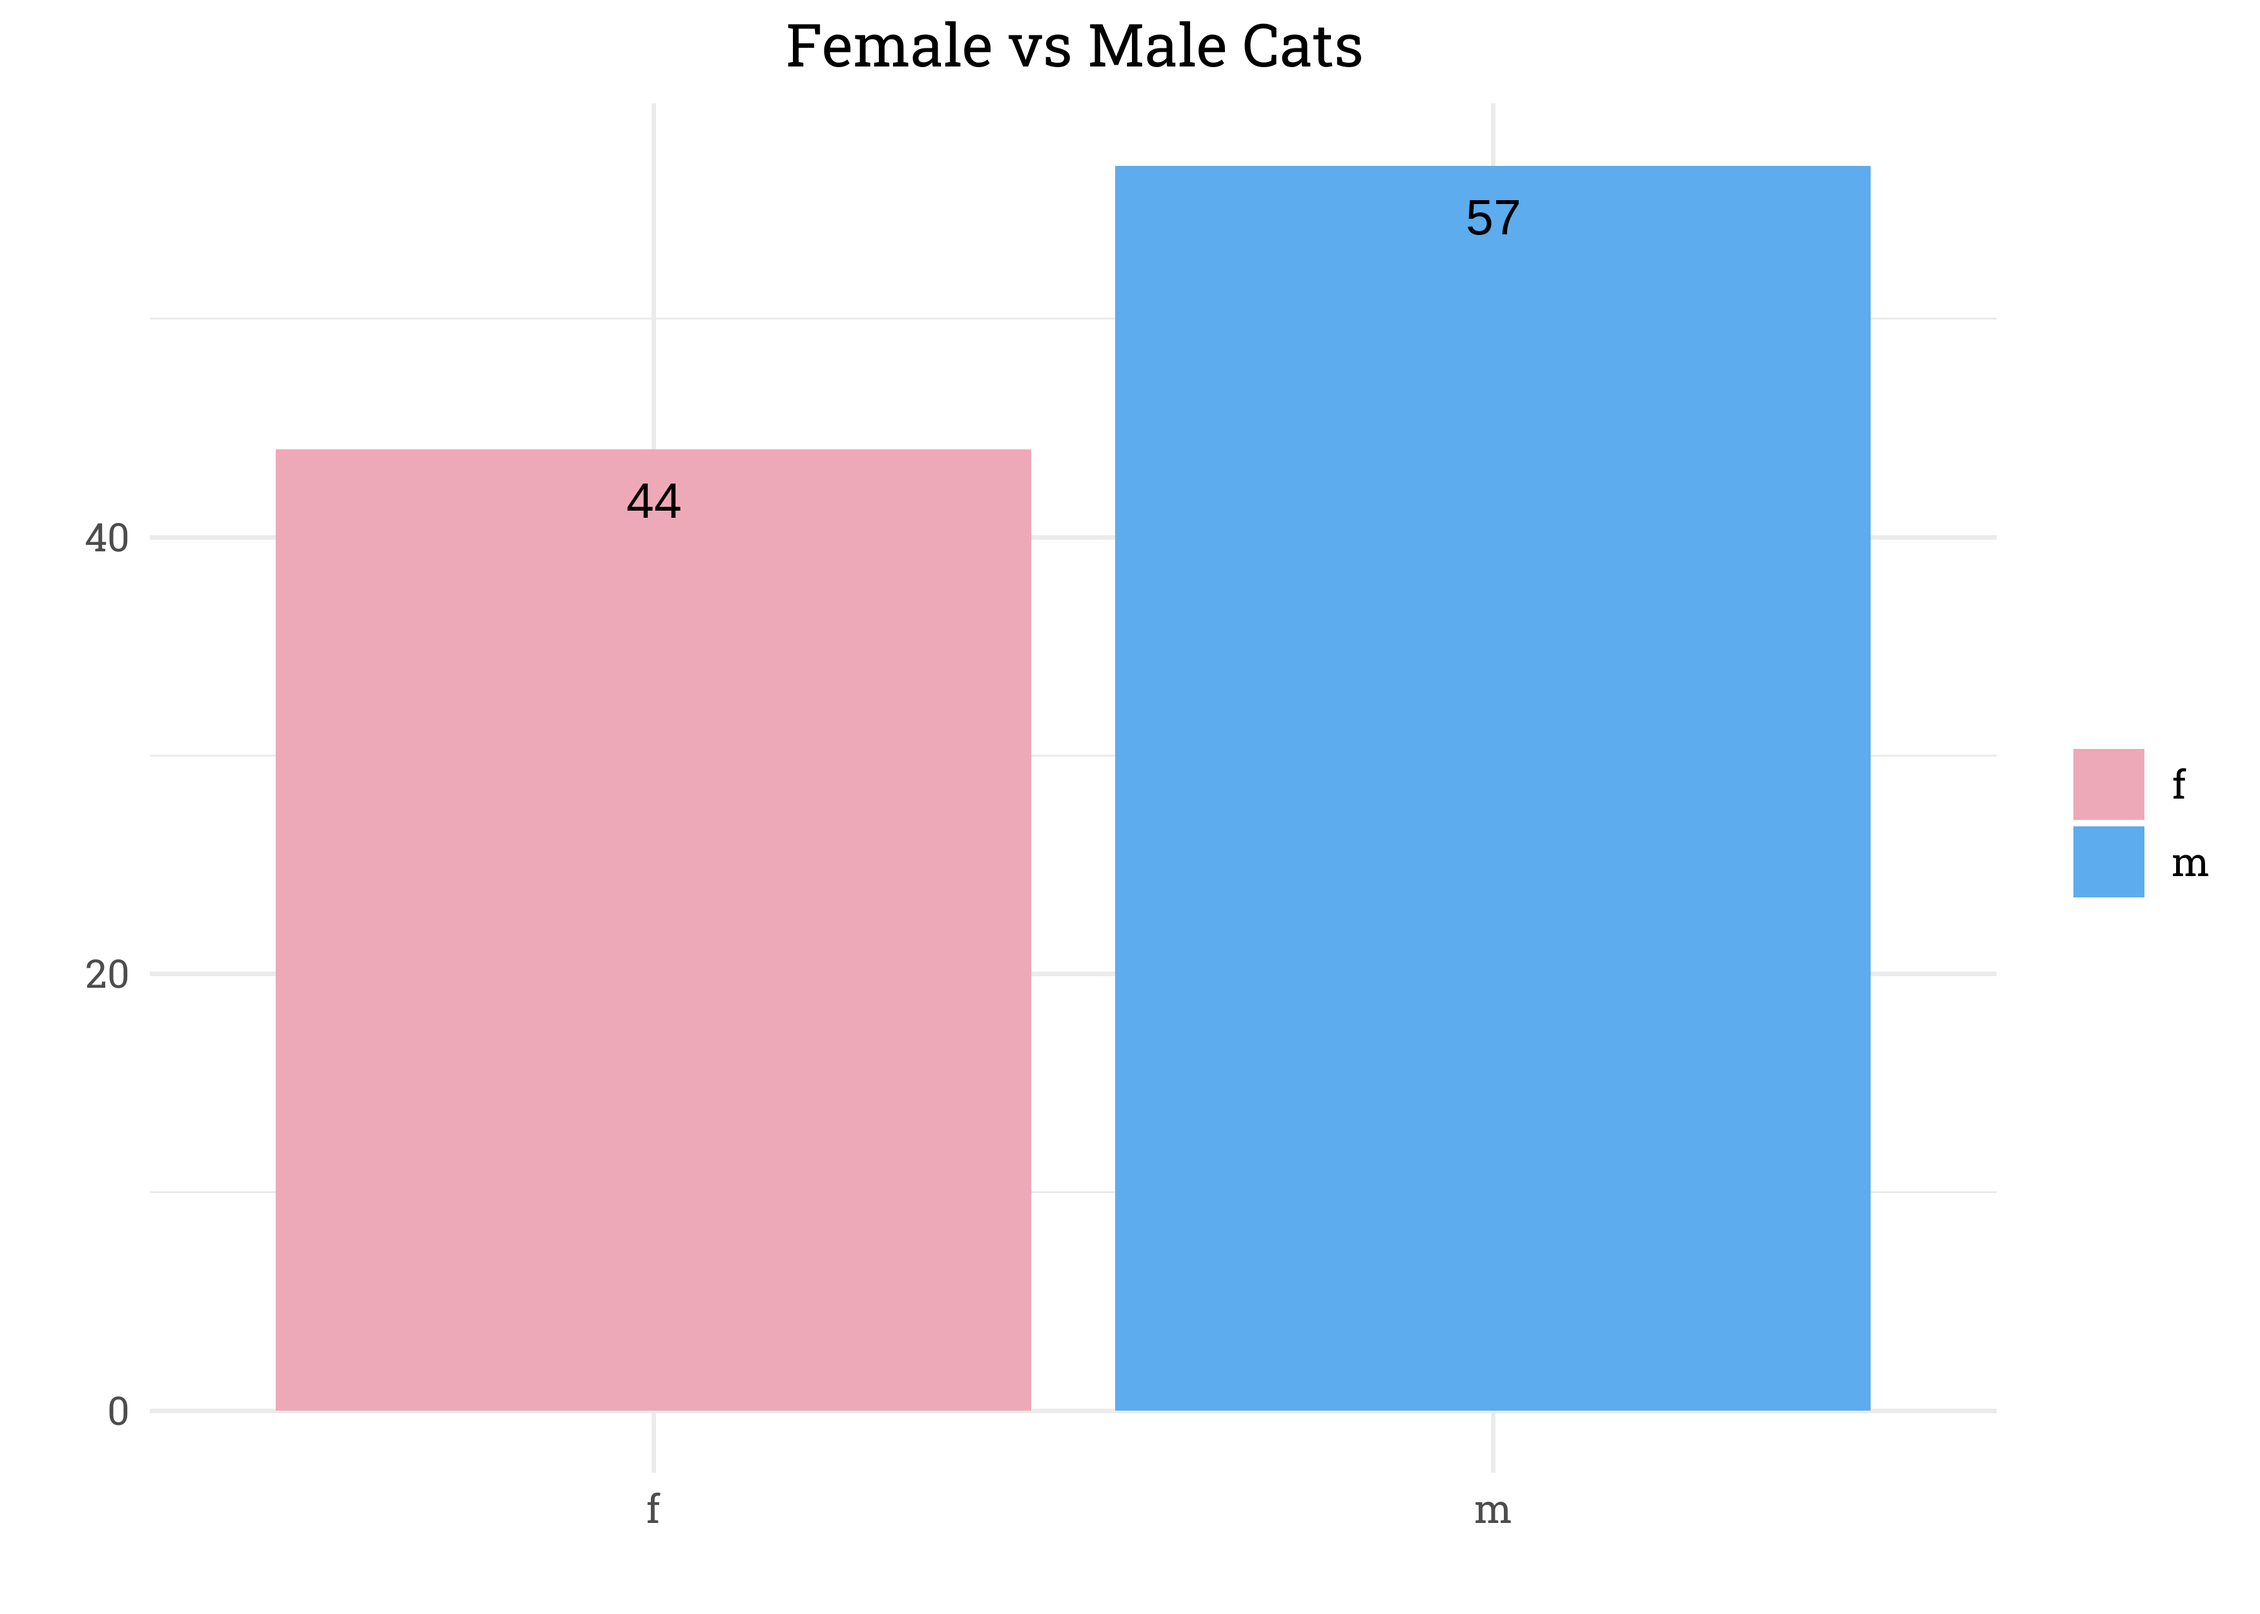
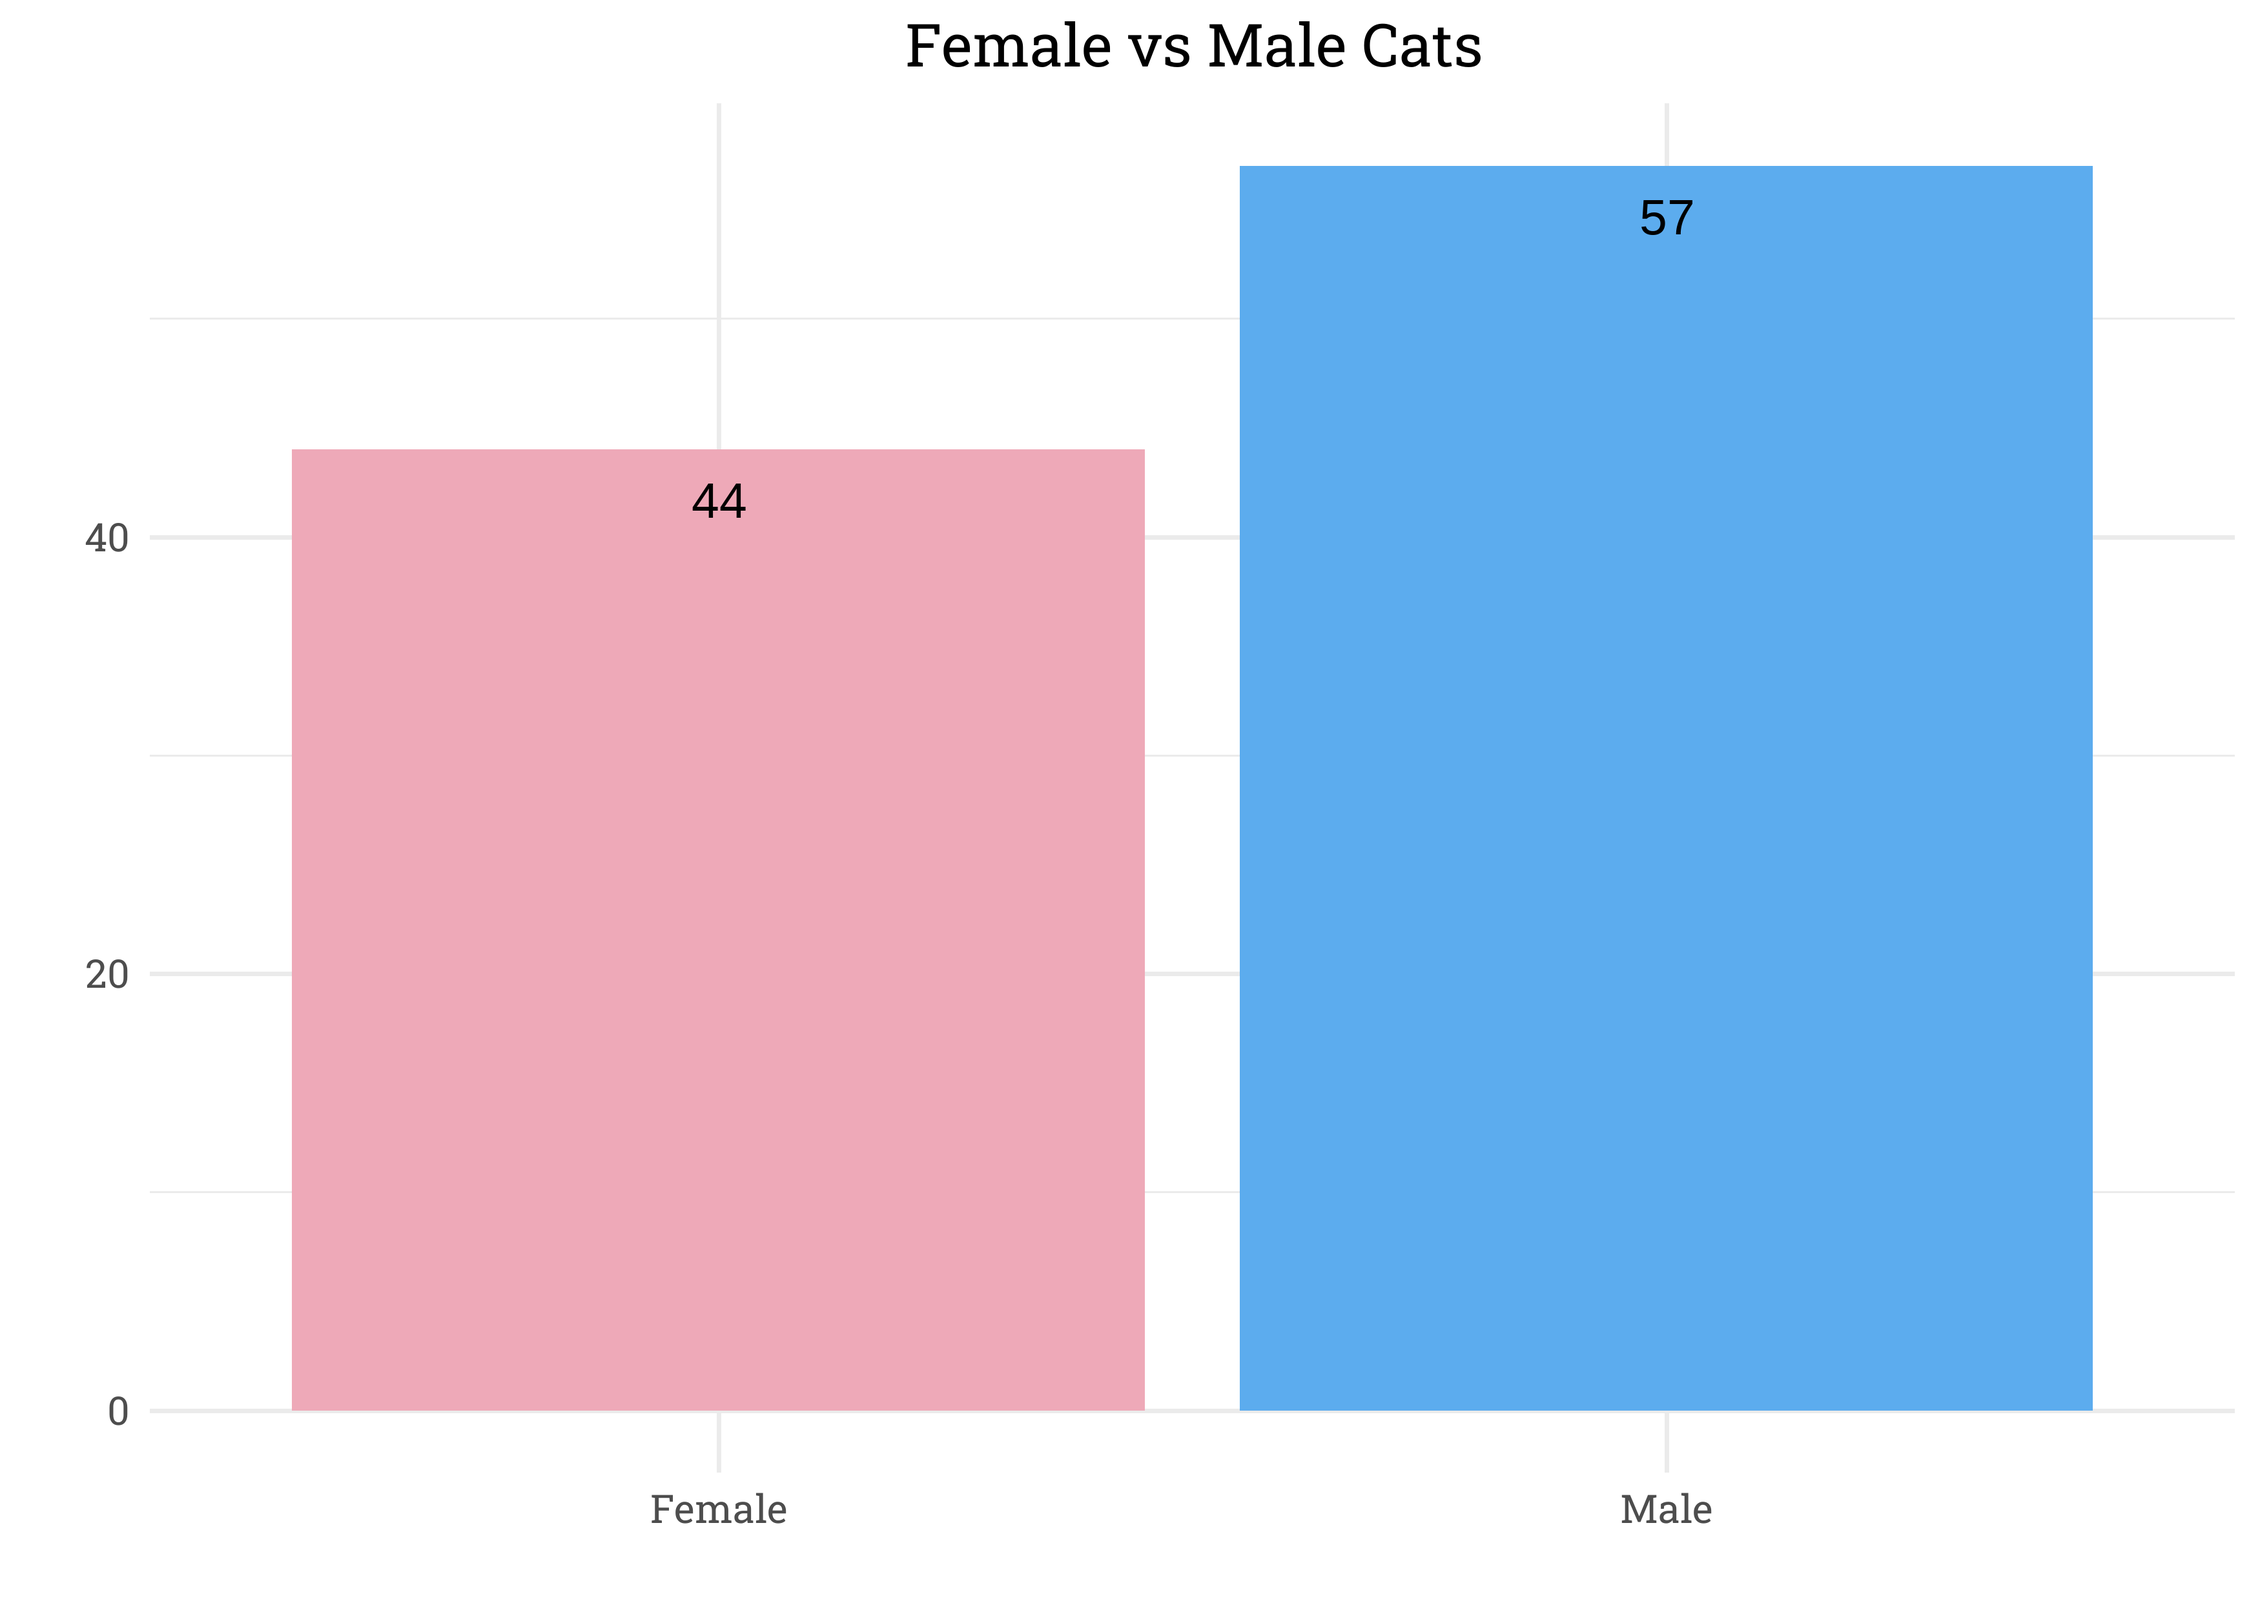
rename cat sex

diff --git a/2023/01-31-23/UK-Cats.md b/2023/01-31-23/UK-Cats.md
@@ -3,12 +3,12 @@ Cats in the UK
 Matthew
 2023-01-30
 
--   <a href="#exploratory-data-analysis"
-    id="toc-exploratory-data-analysis">Exploratory Data Analysis</a>
-    -   <a href="#number-of-cats" id="toc-number-of-cats">Number of Cats</a>
-    -   <a href="#prey-per-year" id="toc-prey-per-year">Prey Per Year</a>
-    -   <a href="#hours-indoors" id="toc-hours-indoors">Hours Indoors</a>
-    -   <a href="#cat-sex" id="toc-cat-sex">Cat Sex</a>
+- <a href="#exploratory-data-analysis"
+  id="toc-exploratory-data-analysis">Exploratory Data Analysis</a>
+  - <a href="#number-of-cats" id="toc-number-of-cats">Number of Cats</a>
+  - <a href="#prey-per-year" id="toc-prey-per-year">Prey Per Year</a>
+  - <a href="#hours-indoors" id="toc-hours-indoors">Hours Indoors</a>
+  - <a href="#cat-sex" id="toc-cat-sex">Cat Sex</a>
 
 ``` r
 cats <- read_csv('https://raw.githubusercontent.com/rfordatascience/tidytuesday/master/data/2023/2023-01-31/cats_uk_reference.csv')
@@ -66,8 +66,10 @@ cats %>%
   ggplot(aes(animal_sex, n, fill = animal_sex)) +
   geom_col() +
   geom_text(aes(label = n), vjust = 2) +
-  labs(fill = "", x = "", y = "", title = "Female vs Male Cats") +
-  scale_fill_manual(values = c("pink2", "steelblue2"))
+  labs(x = "", y = "", title = "Female vs Male Cats") +
+  scale_x_discrete(labels = c("Female", "Male")) +
+  scale_fill_manual(values = c("pink2", "steelblue2")) +
+  theme(legend.position = "none")
 ```
 
 ![](UK-Cats_files/figure-gfm/unnamed-chunk-5-1.png)<!-- -->
